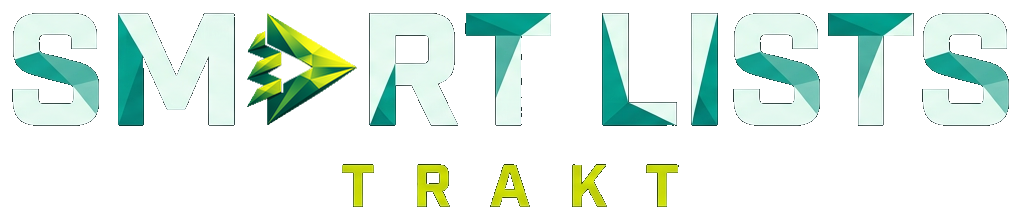
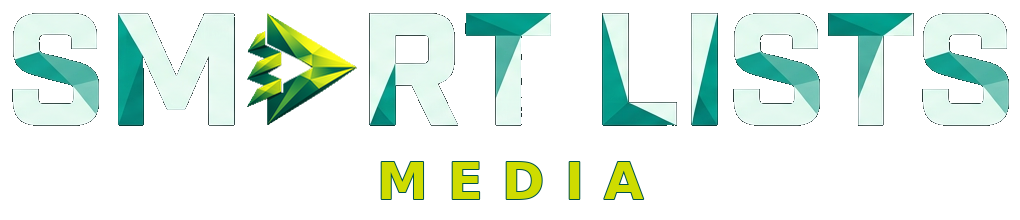
Add files via upload

Changed region(s): [[0.3343, 0.7091, 0.6686, 0.9545]]

diff --git a/app.py b/app.py
@@ -12,7 +12,7 @@ import streamlit as st
 
 
 APP_NAME = "Media Smart Lists"
-APP_VERSION = "0.2.1-alpha"
+APP_VERSION = "0.3.0-alpha"
 
 PAGES = [
     "🏠 Tableau de bord",
@@ -275,17 +275,14 @@ def navigation() -> str:
 
 
 def header() -> None:
-    icon_col, title_col = st.columns([0.08, 0.92], vertical_alignment="center")
-    with icon_col:
-        if os.path.exists("logo.png"):
-            st.image("logo.png", width=58)
-        else:
-            st.markdown("## 🎬")
-    with title_col:
-        st.markdown(
-            '<div class="brand-kicker">Un seul tableau de bord · plusieurs sources</div>',
-            unsafe_allow_html=True,
-        )
+    wordmark_path = os.path.join("static", "wordmark.png")
+    st.markdown(
+        '<div class="brand-kicker">Un seul tableau de bord · plusieurs sources</div>',
+        unsafe_allow_html=True,
+    )
+    if os.path.exists(wordmark_path):
+        st.image(wordmark_path, width=510)
+    else:
         st.markdown('<div class="brand-title">Media Smart Lists</div>', unsafe_allow_html=True)
         st.markdown('<div class="brand-rule"></div>', unsafe_allow_html=True)
     st.markdown("<div style='height:.75rem'></div>", unsafe_allow_html=True)
@@ -323,7 +320,7 @@ def page_dashboard() -> None:
             """,
             unsafe_allow_html=True,
         )
-        if st.button("Préparer l'import ZIP Trakt", key="choose_zip"):
+        if st.button("Préparer l'import ZIP Trakt", type="primary", key="choose_zip"):
             st.session_state["pending_source"] = "trakt_zip"
 
     if st.session_state.get("pending_source") == "mdblist":

diff --git a/ETAPE-5.md b/ETAPE-5.md
@@ -1,0 +1,14 @@
+# Media Smart Lists — Étape 5
+
+- Les deux boutons de source utilisent désormais exactement le même style primaire legacy.
+- Nouveau wordmark `SMART LISTS / MEDIA`, dérivé du visuel historique.
+- L'accroche jaune Manrope reste au-dessus du logo.
+- Fond, menu et palette des boutons restent inchangés.
+
+## Installation
+
+1. GitHub : **Add file → Upload files**.
+2. Envoyer `app.py`, `ETAPE-5.md` et le dossier `static` contenant `wordmark.png`.
+3. Vérifier que l'ancien `static/wordmark.png` est remplacé.
+4. Commit : `ui: unify source buttons and add Media Smart Lists wordmark`.
+5. Attendre le redéploiement Streamlit et recharger la page.
